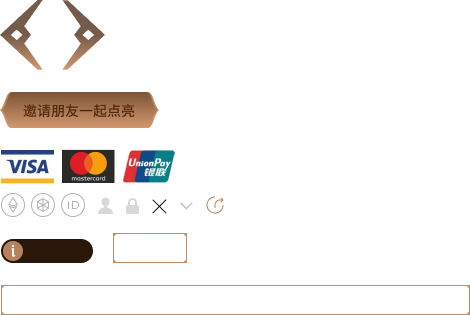
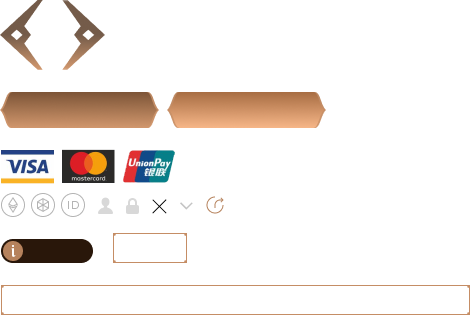
Add files via upload

Changed region(s): [[0.3574, 0.2857, 0.7149, 0.4286], [0.0298, 0.3143, 0.2979, 0.3714]]

diff --git a/风林火山/css/main.css b/风林火山/css/main.css
@@ -155,7 +155,8 @@ input:-ms-input-placeholder{color: #999999;}
 .wapper-content .mod-info .text-box{ float: left; margin-left: 15px;}
 .wapper-content .mod-info .text-box h3{ font-size: 16px; line-height: 23px; font-weight: 500;}
 .wapper-content .mod-info .text-box p{ margin-top: 8px; font-size: 12px; line-height: 17px; width: 212px; }
-.wapper-content .mod-info .m-btn{ font-size: 0; width: 158px; line-height: 36px; text-align: center; font-weight: 500; color: #4F290C; background-position: 0 -92px; cursor: pointer;}
+.wapper-content .mod-info .m-btn{ font-size: 14px; width: 158px; line-height: 36px; text-align: center; font-weight: 500; color: #4F290C; background-position: 0 -92px; cursor: pointer;}
+.wapper-content .mod-info .m-btn:hover{ background-position: -167px -92px;}
 .wapper-content .mod-info .mod-brief{ margin-top: 40px;}
 .wapper-content .mod-info .mod-brief p{ font-size: 14px; line-height: 20px; margin-bottom: 20px;}
 
